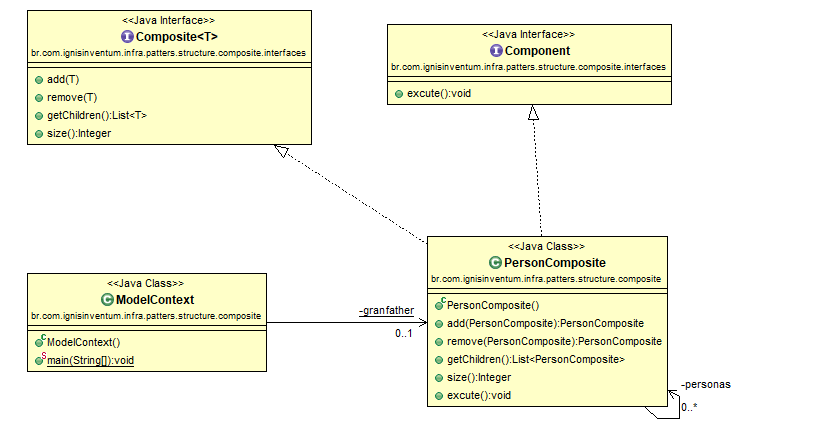
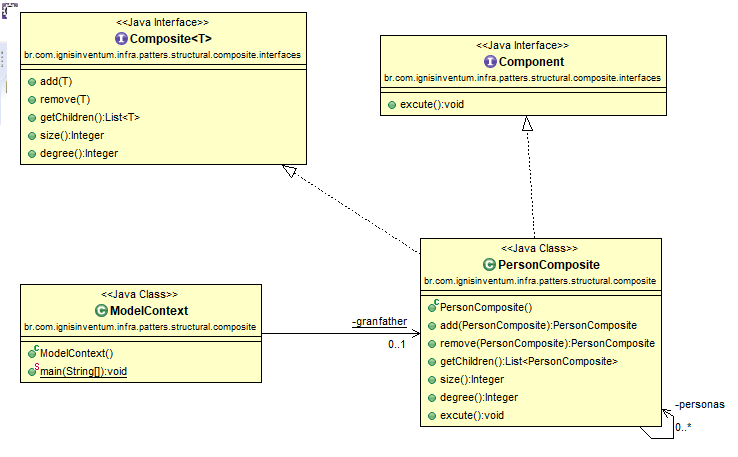
Fixit composite pattern

Changed region(s): [[0.0, 0.514, 0.9973, 0.9674], [0.0, 0.0, 0.4363, 0.393], [0.4675, 0.0302, 0.9038, 0.2721]]

diff --git a/src/main/java/br/com/ignisinventum/infra/patters/structural/composite/PersonComposite.java b/src/main/java/br/com/ignisinventum/infra/patters/structural/composite/PersonComposite.java
@@ -18,7 +18,7 @@ public class PersonComposite implements Composite<PersonComposite>, Component {
 	 * Adds the.
 	 *
 	 * @param person the person
-	 * @return 
+	 * @return the person composite
 	 */
 	@Override
 	public PersonComposite add(PersonComposite person) {
@@ -30,6 +30,7 @@ public class PersonComposite implements Composite<PersonComposite>, Component {
 	 * Removes the.
 	 *
 	 * @param person the person
+	 * @return the person composite
 	 */
 	@Override
 	public PersonComposite remove(PersonComposite person) {
@@ -46,12 +47,31 @@ public class PersonComposite implements Composite<PersonComposite>, Component {
 	public List<PersonComposite> getChildren() {
 		return personas;
 	}
-	
+
+	/**
+	 * Size.
+	 *
+	 * @return the integer
+	 */
 	@Override
 	public Integer size() {
 		Integer count = 1;
 		for (PersonComposite person : personas) {
 			count += person.size();
+		}
+		return count;
+	}
+
+	/**
+	 * Degree.
+	 *
+	 * @return the integer
+	 */
+	@Override
+	public Integer degree() {
+		Integer count = 1;
+		if (personas.size() > 0) {
+			count += personas.get(0).degree();
 		}
 		return count;
 	}

diff --git a/src/main/java/br/com/ignisinventum/infra/patters/structural/composite/ModelContext.java b/src/main/java/br/com/ignisinventum/infra/patters/structural/composite/ModelContext.java
@@ -7,11 +7,15 @@ public class ModelContext {
 	public static void main(String[] args) {
 
 		PersonComposite father = new PersonComposite();
+		PersonComposite uncle = new PersonComposite();
 		PersonComposite son = new PersonComposite();
 		
 		granfather.add(father.add(son));
+		granfather.add(uncle);
 		
 		System.out.println(granfather.size());
+		System.out.println(granfather.degree());
+		System.out.println(son.size());
 		
 
 	}

diff --git a/src/main/java/br/com/ignisinventum/infra/patters/structural/composite/interfaces/Composite.java b/src/main/java/br/com/ignisinventum/infra/patters/structural/composite/interfaces/Composite.java
@@ -2,7 +2,6 @@ package br.com.ignisinventum.infra.patters.structural.composite.interfaces;
 
 import java.util.List;
 
-
 /**
  * The Interface Composite.
  *
@@ -39,6 +38,13 @@ public interface Composite<T extends Component> {
 	 * @return the integer
 	 */
 	Integer size();
+
+	/**
+	 * Degree.
+	 *
+	 * @return the integer
+	 */
+	Integer degree();
 
 }
  
